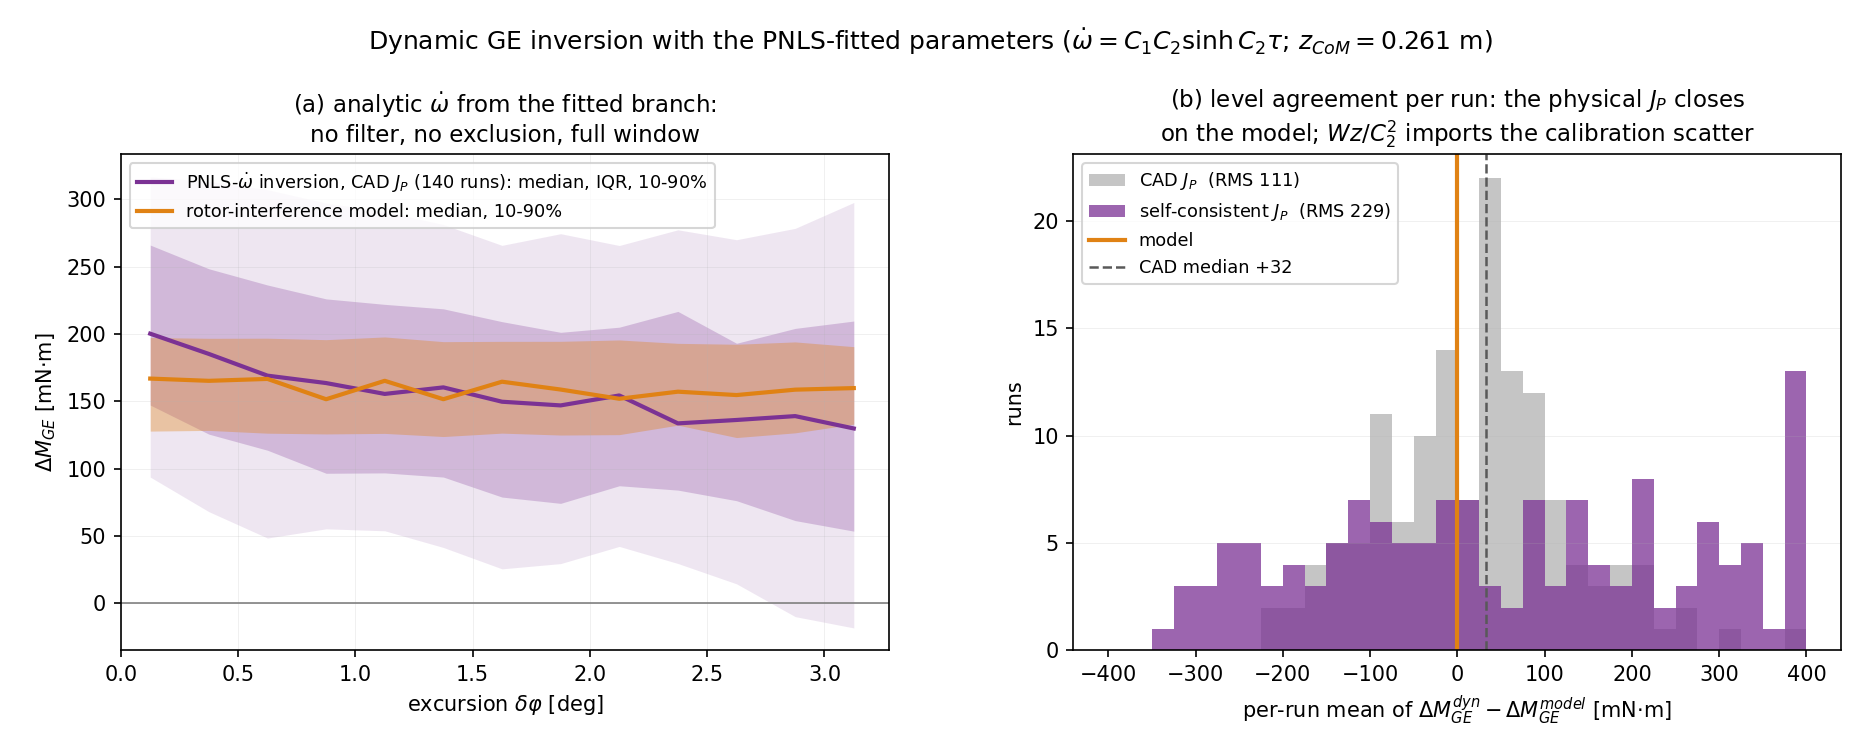
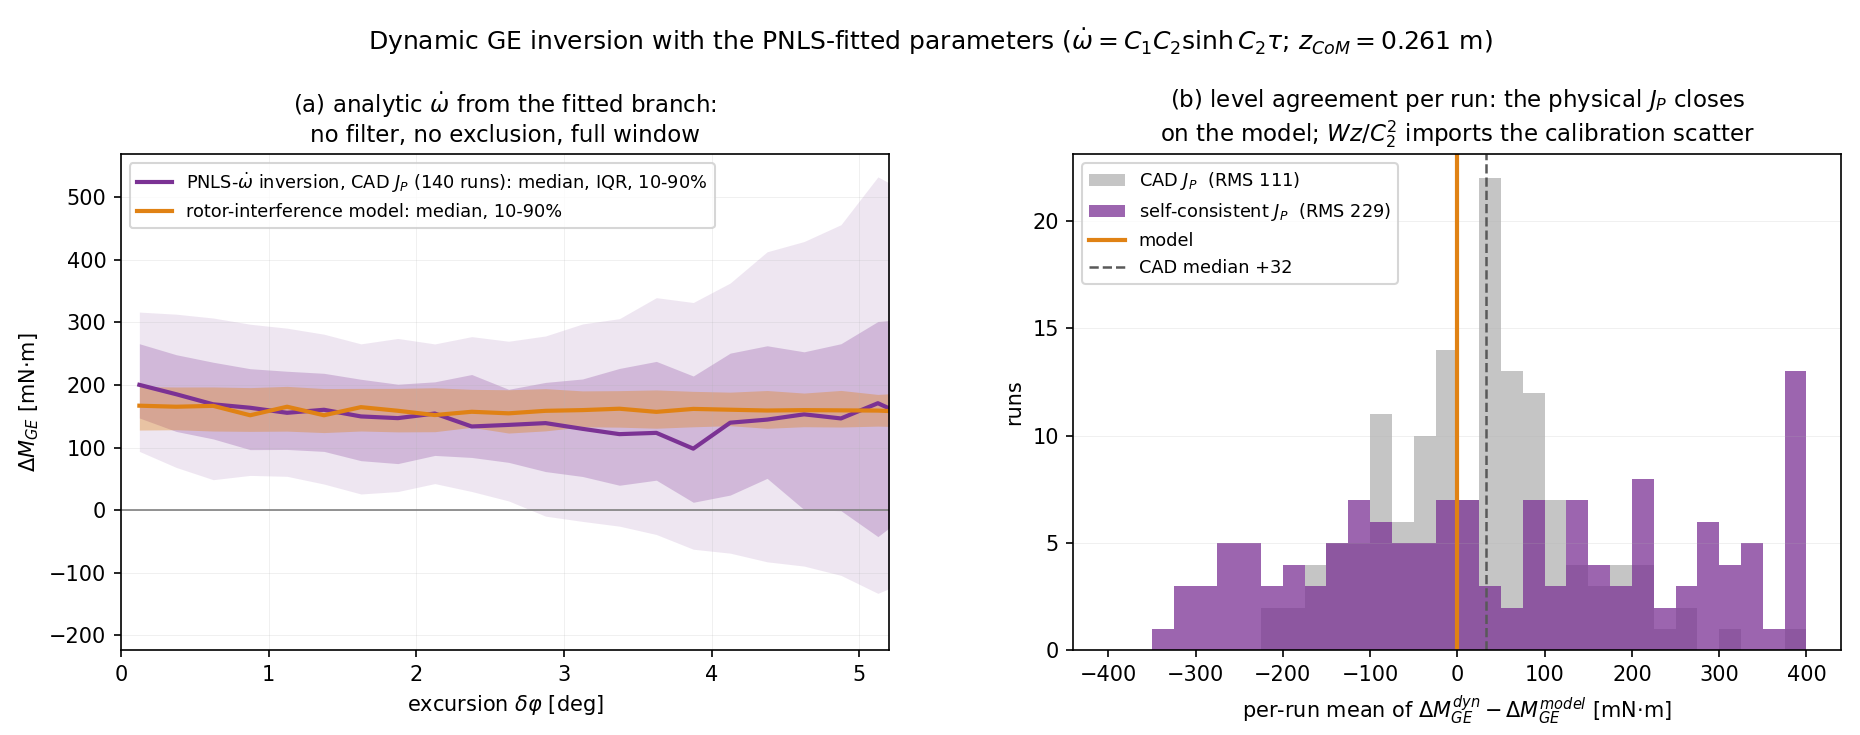
Extend the PNLS inversion aggregate to 5 deg; attribute the scatter
Panel (a) now reaches 5.2 deg (bin floor 150 -> 50 samples): the
inversion median tracks the model band over the whole excitation tilt
range, dipping to ~100 near 3.9 deg and returning to the band by 5.

Scatter attribution: corr(d, J_P C2^2/Wz - 1) = +0.16, so the C2
calibration is NOT the driver of the CAD-variant spread.  The
per-dataset medians decompose the RMS 111 into ~88 within dataset --
exactly the static M_crit check's own repeatability floor -- and ~68
between (case x axis systematics: every My group positive +37..+103,
the pitch contact geometry; Mx mixed-sign tracking configuration).

Claude-Session: https://claude.ai/code/session_01BM6bcsm1ZtLtgegEeuFDVS

diff --git a/analysis/ge_pnls_inversion.py b/analysis/ge_pnls_inversion.py
@@ -139,6 +139,7 @@ def collect():
             gm = s * raw[sl]
             rows.append(dict(
                 case=case, axisname=axname, bag=crit.bag_name,
+                mism=float(jp_cad * c2 ** 2 / (W * Z) - 1.0),
                 phi=np.rad2deg(phi),
                 eff=1e3 * (jp_eff * om_dot + base),
                 cad=1e3 * (jp_cad * om_dot + base),
@@ -177,6 +178,21 @@ def main():
           f"{np.median(s_cad):+.1f} mN.m/deg, IQR "
           f"[{np.percentile(s_cad,25):+.1f},{np.percentile(s_cad,75):+.1f}],"
           f" {int(np.sum(s_cad < 0))}/{len(s_cad)} negative")
+    # where the run-to-run scatter comes from
+    mism = np.array([r['mism'] for r in rows])
+    cc = float(np.corrcoef(mism, d_cad)[0, 1])
+    print(f"\n  scatter attribution: corr(d, J_P C2^2/Wz - 1) = {cc:+.2f}")
+    print(f"  {'dataset':<14}{'C2 mism':>9}{'median d':>10}")
+    seen = []
+    for r in rows:
+        key = (r['case'], r['axisname'])
+        if key in seen:
+            continue
+        seen.append(key)
+        ds = [q for q in rows
+              if (q['case'], q['axisname']) == key]
+        dd = np.median([float(np.mean(q['cad'] - q['mod'])) for q in ds])
+        print(f"  {key[0]+'/'+key[1]:<14}{ds[0]['mism']:+9.2f}{dd:+10.1f}")
 
     fig, (a1, a2) = plt.subplots(1, 2, figsize=(12.4, 4.9))
     fig.subplots_adjust(left=0.065, right=0.99, top=0.79, bottom=0.115,
@@ -189,7 +205,7 @@ def main():
     cx, md, q1, q3, p10, p90, mm, m1, m3 = ([] for _ in range(9))
     for b0, b1 in zip(bins[:-1], bins[1:]):
         k = (PH >= b0) & (PH < b1)
-        if k.sum() < 150:
+        if k.sum() < 50:
             continue
         cx.append(0.5 * (b0 + b1))
         md.append(np.median(GE[k])); q1.append(np.percentile(GE[k], 25))
@@ -206,7 +222,7 @@ def main():
     a1.plot(cx, mm, '-', color='#e08214', lw=2.0,
             label='rotor-interference model: median, 10-90%')
     a1.axhline(0, color='0.5', lw=0.8)
-    a1.set_xlim(left=0.0)
+    a1.set_xlim(0.0, 5.2)
     a1.set_xlabel(r'excursion $\delta\varphi$ [deg]', fontsize=10)
     a1.set_ylabel(r'$\Delta M_{GE}$ [mN$\cdot$m]', fontsize=10)
     a1.set_title('(a) analytic $\\dot\\omega$ from the fitted branch:\n'
